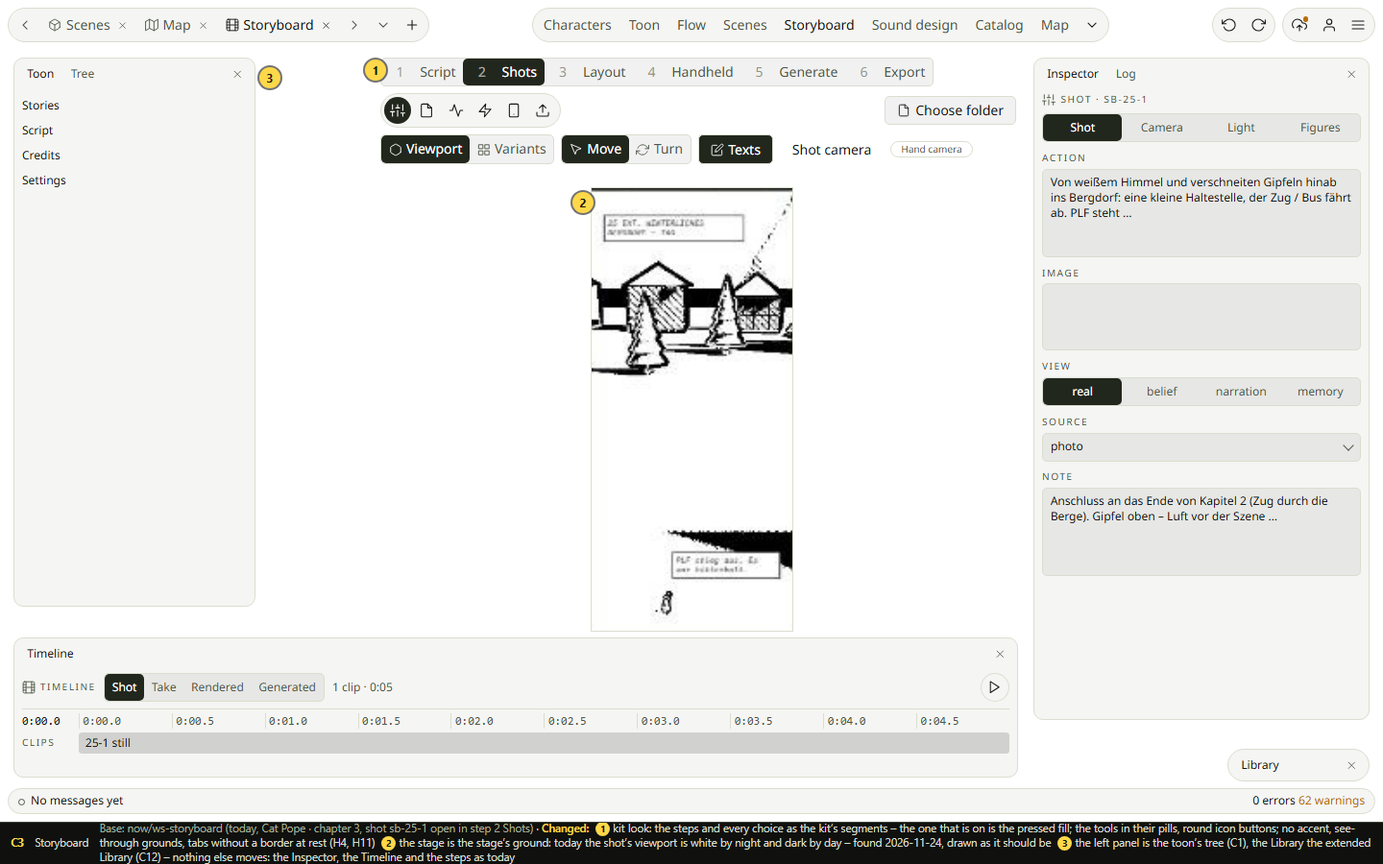
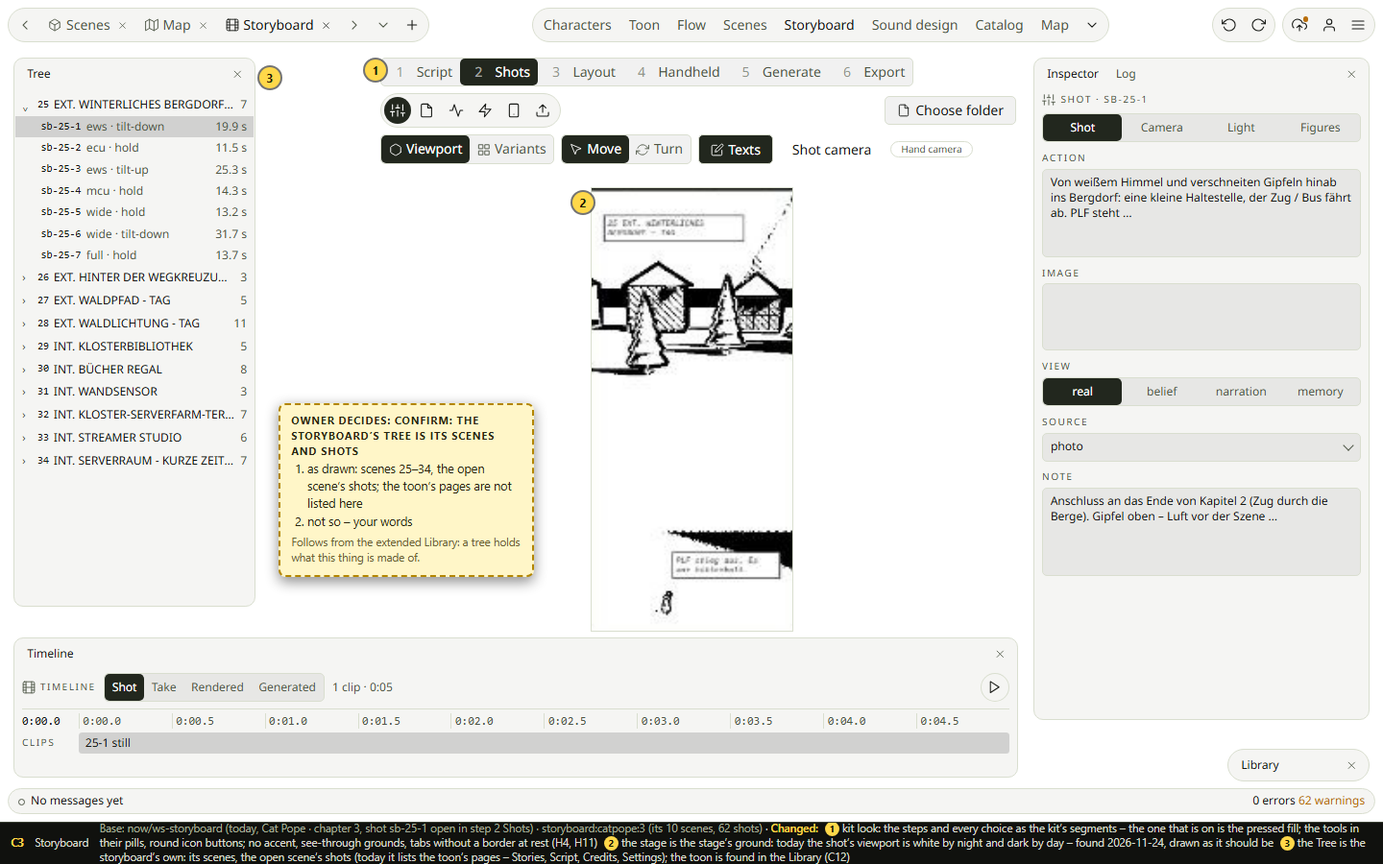
Lap 2: the defaults for the open points are settled for the night run (owner 2026-11-24); the Storyboard with its own tree, the Handheld step (connecting a phone) and the Generate step (the way into the generator) drawn. Refs #626

diff --git a/agents/research/redesign/lap2/draft-screens.js b/agents/research/redesign/lap2/draft-screens.js
@@ -226,35 +226,84 @@ add('C', 'C1', 'Toon: one toon – seasons, chapters, the cast', 'now/ws-toon (2
   });
 add('C', 'C2', 'Chapter', presetBase('chapter'), [KIT],
   () => `${wsFromPreset('Chapter', TOON_ITEMS, [LEFT([['Toon',1],['Tree',0]]), { x: 1076, y: 60, w: 350, h: 420, tabs: [['Inspector',1],['Log',0],['Flow',0]] }, { x: 1092, y: 735, w: 170, tabs: [['Preview',1]], folded: true }, LIBF], pageNotShot())}${mk(1, 270, 60)}`);
-/* C3 – the Storyboard workspace, drawn from today's page (now/ws-storyboard, creator.scutoons.com/catpope/chapter/3/storyboard, 2026-11-24): the steps, the tools, the shot's page, the Inspector, the Timeline – on the kit */
+/* C3 – the Storyboard workspace, drawn from today's page (now/ws-storyboard, creator.scutoons.com/catpope/chapter/3/storyboard, 2026-11-24): the steps, the tools, the shot's page, the Inspector, the Timeline – on the kit.
+   C3b and C3c: the Handheld and the Generate step, their panels' words read from the same page; the scenes and shots are the storyboard's own (storyboard:catpope:3, read 2026-11-24). */
 const SB_PAGE = (x, y, w, h) => `<span class="abs" style="left:${x}px;top:${y}px;width:${w}px;height:${h}px;overflow:hidden;outline:1px solid var(--tool-line)" title="the shot's page as today (sb-25-1)">${capPic(`now/ws-storyboard-${WS_TH}.jpg`, 800, 476, 342, 100, 116, 256)}</span>`;
 const SB_SEG = (names, on, o = {}) => `<span class="seg" ${o.style ? `style="${o.style}"` : ''}>${names.map((n, k) => `<span class="${k === on ? 'on' : ''}" ${o.grow ? 'style="flex:1;justify-content:center"' : ''}>${n}</span>`).join('')}</span>`;
 const SB_LBL = (t, top = '.7rem') => `<div class="label" style="margin:${top} 0 .3rem">${t}</div>`;
 const SB_TEXT = (t, h) => `<div class="fld" style="width:auto;height:${h}px;align-items:flex-start;padding:.35rem .55rem;white-space:normal;line-height:1.35;overflow:hidden">${t}</div>`;
-add('C', 'C3', 'Storyboard', 'now/ws-storyboard (today, Cat Pope · chapter 3, shot sb-25-1 open in step 2 Shots)',
-  ['kit look: the steps and every choice as the kit’s segments – the one that is on is the pressed fill; the tools in their pills, round icon buttons; no accent, see-through grounds, tabs without a border at rest (H4, H11)',
-   'the stage is the stage’s ground: today the shot’s viewport is white by night and dark by day – found 2026-11-24, drawn as it should be',
-   'the left panel is the toon’s tree (C1), the Library the extended Library (C12) – nothing else moves: the Inspector, the Timeline and the steps as today'],
-  () => `${cbar({ chevron: true, wsOn: 'Storyboard', ws: ['Characters', 'Toon', 'Flow', 'Scenes', 'Storyboard', 'Sound design', 'Catalog', 'Map'], items: [['box', 'Scenes'], ['map', 'Map'], ['film', 'Storyboard']] })}
-  ${fp(14, 60, 252, 572, [['Toon', 1], ['Tree', 0]], ['Stories', 'Script', 'Credits', 'Settings'].map(n => `<div class="lrow" style="min-height:1.85rem">${n}</div>`).join(''))}
+const SB_SCENES = [[25, 'EXT. WINTERLICHES BERGDORF - TAG', 7], [26, 'EXT. HINTER DER WEGKREUZUNG - TAG', 3], [27, 'EXT. WALDPFAD - TAG', 5], [28, 'EXT. WALDLICHTUNG - TAG', 11], [29, 'INT. KLOSTERBIBLIOTHEK', 5], [30, 'INT. BÜCHER REGAL', 8], [31, 'INT. WANDSENSOR', 3], [32, 'INT. KLOSTER-SERVERFARM-TERMINALS', 7], [33, 'INT. STREAMER STUDIO', 6], [34, 'INT. SERVERRAUM - KURZE ZEIT SPÄTER', 7]];
+const SB_SHOTS = [['sb-25-1', 'ews · tilt-down', '19.9'], ['sb-25-2', 'ecu · hold', '11.5'], ['sb-25-3', 'ews · tilt-up', '25.3'], ['sb-25-4', 'mcu · hold', '14.3'], ['sb-25-5', 'wide · hold', '13.2'], ['sb-25-6', 'wide · tilt-down', '31.7'], ['sb-25-7', 'full · hold', '13.7']];
+/* the storyboard's own tree: its scenes, the open scene's shots – what the storyboard is made of (LIBRARY.md); the toon's pages are not listed here */
+const sbTree = () => fp(14, 60, 252, 572, [['Tree', 1]], SB_SCENES.map(([n, h, c], k) => `<div class="lrow" style="min-height:1.7rem;gap:.35rem;white-space:nowrap"><span class="cap" style="flex:none;width:.8rem">${k === 0 ? '⌄' : '›'}</span><span class="mono" style="flex:none">${n}</span><span style="flex:1;min-width:0;overflow:hidden;text-overflow:ellipsis;font-size:var(--editor-small)">${h}</span><span class="cap" style="flex:none">${c}</span></div>${k === 0 ? SB_SHOTS.map(([id, m, sec], q) => `<div class="lrow" style="min-height:1.6rem;gap:.4rem;margin:0 -.5rem;padding:0 .5rem 0 1.9rem;white-space:nowrap;${q === 0 ? 'background:var(--tool-selected)' : ''}"><span class="mono">${id}</span><span class="cap" style="flex:1;min-width:0;overflow:hidden;text-overflow:ellipsis">${m}</span><span class="cap">${sec} s</span></div>`).join('') : ''}`).join(''));
+const SB_STEPS = ['1 Script', '2 Shots', '3 Layout', '4 Handheld', '5 Generate', '6 Export'];
+/* the Storyboard's frame: the bar, the tree, the steps and tools, the shot's page, the right panel, the Timeline */
+function sbScreen(step, right) {
+  return `${cbar({ chevron: true, wsOn: 'Storyboard', ws: ['Characters', 'Toon', 'Flow', 'Scenes', 'Storyboard', 'Sound design', 'Catalog', 'Map'], items: [['box', 'Scenes'], ['map', 'Map'], ['film', 'Storyboard']] })}
+  ${sbTree()}
   <div class="abs" style="left:396px;top:60px;display:flex;flex-direction:column;gap:.5rem;width:662px">
-    <div>${SB_SEG(['1 Script', '2 Shots', '3 Layout', '4 Handheld', '5 Generate', '6 Export'].map(n => `<span style="color:inherit;opacity:.6;margin-right:.35rem">${n[0]}</span>${n.slice(2)}`), 1)}</div>
+    <div>${SB_SEG(SB_STEPS.map(n => `<span style="color:inherit;opacity:.6;margin-right:.1rem">${n[0]}</span>${n.slice(2)}`), step - 1)}</div>
     <div style="display:flex;align-items:center"><span class="kp">${['sliders', 'file', 'activity', 'zap', 'phone', 'upload'].map((n, k) => `<span class="kib ${k === 0 ? 'pressed' : ''}">${ic(n)}</span>`).join('')}</span><span style="flex:1"></span><span class="kb plain">${ic('file')}Choose folder</span></div>
-    <div style="display:flex;align-items:center;gap:.5rem">${SB_SEG([ic('cube') + 'Viewport', ic('grid') + 'Variants'], 0)}${SB_SEG([ic('pointer') + 'Move', ic('refresh') + 'Turn'], 0)}<span class="kb plain pressed" style="background:var(--tool-pressed);color:var(--tool-pressed-text)" title="Texts shown">${ic('edit')}Texts</span><span class="kb quiet">Shot camera</span><span class="kc" title="This shot is filmed by hand">Hand camera</span></div>
+    <div style="display:flex;align-items:center;gap:.5rem">${SB_SEG([ic('cube') + 'Viewport', ic('grid') + 'Variants'], 0)}${SB_SEG([ic('pointer') + 'Move', ic('refresh') + 'Turn'], 0)}<span class="kb plain" style="background:var(--tool-pressed);color:var(--tool-pressed-text)" title="Texts shown">${ic('edit')}Texts</span><span class="kb quiet">Shot camera</span><span class="kc" title="This shot is filmed by hand">Hand camera</span></div>
   </div>
   ${SB_PAGE(616, 196, 209, 461)}
-  ${fp(1076, 60, 350, 690, [['Inspector', 1], ['Log', 0]], `<div class="label" style="display:flex;align-items:center;gap:.4rem;margin-bottom:.5rem">${ic('sliders')}Shot · sb-25-1</div>
+  ${fp(1076, 60, 350, 690, right.tabs, right.body)}
+  ${fp(14, 664, 1046, 146, [['Timeline', 1]], `<div style="display:flex;align-items:center;gap:.6rem;margin-bottom:.5rem"><span class="label" style="display:inline-flex;align-items:center;gap:.35rem">${ic('film')}Timeline</span>${SB_SEG(['Shot', 'Take', 'Rendered', 'Generated'], right.clip || 0)}<span class="cap">1 clip · 0:05</span><span style="flex:1"></span><span class="kib" style="box-shadow:inset 0 0 0 1px var(--tool-line)" title="Play">${ic('play')}</span></div>
+    <div style="display:flex;border-top:1px solid var(--tool-line);padding-top:.25rem" class="mono cap"><span style="width:4.2rem;color:var(--tool-text)">0:00.0</span>${['0:00.0', '0:00.5', '0:01.0', '0:01.5', '0:02.0', '0:02.5', '0:03.0', '0:03.5', '0:04.0', '0:04.5'].map(t => `<span style="flex:1;border-left:1px solid var(--tool-line);padding-left:.25rem">${t}</span>`).join('')}</div>
+    <div style="display:flex;align-items:center;margin-top:.3rem"><span class="label" style="width:4.2rem">Clips</span><span style="flex:1;height:1.6rem;border-radius:.25rem;background:var(--tool-selected);display:flex;align-items:center;padding:0 .5rem;font-size:var(--editor-small)">25-1 still</span></div>`)}
+  ${folded(1278, 780, 'Library')}${cstatus('No messages yet', '0 errors <span class="warn">62 warnings</span>')}`;
+}
+const SB_INSPECTOR = { tabs: [['Inspector', 1], ['Log', 0]], body: `<div class="label" style="display:flex;align-items:center;gap:.4rem;margin-bottom:.5rem">${ic('sliders')}Shot · sb-25-1</div>
     ${SB_SEG(['Shot', 'Camera', 'Light', 'Figures'], 0, { style: 'display:flex', grow: 1 })}
     ${SB_LBL('Action')}${SB_TEXT('Von weißem Himmel und verschneiten Gipfeln hinab ins Bergdorf: eine kleine Haltestelle, der Zug / Bus fährt ab. PLF steht …', 92)}
     ${SB_LBL('Image')}${SB_TEXT('', 70)}
     ${SB_LBL('View')}${SB_SEG(['real', 'belief', 'narration', 'memory'], 0, { style: 'display:flex', grow: 1 })}
     ${SB_LBL('Source')}<div class="fld sel" style="width:auto">photo</div>
-    ${SB_LBL('Note')}${SB_TEXT('Anschluss an das Ende von Kapitel 2 (Zug durch die Berge). Gipfel oben – Luft vor der Szene …', 92)}`)}
-  ${fp(14, 664, 1046, 146, [['Timeline', 1]], `<div style="display:flex;align-items:center;gap:.6rem;margin-bottom:.5rem"><span class="label" style="display:inline-flex;align-items:center;gap:.35rem">${ic('film')}Timeline</span>${SB_SEG(['Shot', 'Take', 'Rendered', 'Generated'], 0)}<span class="cap">1 clip · 0:05</span><span style="flex:1"></span><span class="kib" style="box-shadow:inset 0 0 0 1px var(--tool-line)" title="Play">${ic('play')}</span></div>
-    <div style="display:flex;border-top:1px solid var(--tool-line);padding-top:.25rem" class="mono cap"><span style="width:4.2rem;color:var(--tool-text)">0:00.0</span>${['0:00.0', '0:00.5', '0:01.0', '0:01.5', '0:02.0', '0:02.5', '0:03.0', '0:03.5', '0:04.0', '0:04.5'].map(t => `<span style="flex:1;border-left:1px solid var(--tool-line);padding-left:.25rem">${t}</span>`).join('')}</div>
-    <div style="display:flex;align-items:center;margin-top:.3rem"><span class="label" style="width:4.2rem">Clips</span><span style="flex:1;height:1.6rem;border-radius:.25rem;background:var(--tool-selected);display:flex;align-items:center;padding:0 .5rem;font-size:var(--editor-small)">25-1 still</span></div>`)}
-  ${folded(1278, 780, 'Library')}${cstatus('No messages yet', '0 errors <span class="warn">62 warnings</span>')}
-  ${mk(1, 380, 62)}${mk(2, 596, 200)}${mk(3, 270, 70)}`);
+    ${SB_LBL('Note')}${SB_TEXT('Anschluss an das Ende von Kapitel 2 (Zug durch die Berge). Gipfel oben – Luft vor der Szene …', 92)}` };
+add('C', 'C3', 'Storyboard', 'now/ws-storyboard (today, Cat Pope · chapter 3, shot sb-25-1 open in step 2 Shots) · storyboard:catpope:3 (its 10 scenes, 62 shots)',
+  ['kit look: the steps and every choice as the kit’s segments – the one that is on is the pressed fill; the tools in their pills, round icon buttons; no accent, see-through grounds, tabs without a border at rest (H4, H11)',
+   'the stage is the stage’s ground: today the shot’s viewport is white by night and dark by day – found 2026-11-24, drawn as it should be',
+   'the Tree is the storyboard’s own: its scenes, the open scene’s shots (today it lists the toon’s pages – Stories, Script, Credits, Settings); the toon is found in the Library (C12)'],
+  () => `${sbScreen(2, SB_INSPECTOR)}
+  ${mk(1, 380, 62)}${mk(2, 596, 200)}${mk(3, 270, 70)}
+  ${qcard(290, 420, 'confirm: the Storyboard’s tree is its scenes and shots', ['as drawn: scenes 25–34, the open scene’s shots; the toon’s pages are not listed here', 'not so – your words'], 'Follows from the extended Library: a tree holds what this thing is made of.', '19rem')}`);
+add('C', 'C3b', 'Storyboard · 4 Handheld: connecting a phone', 'today’s Handheld panel, its words read from the page (handheld-panel.svelte, phone-pairing.svelte; 2026-11-24) – the QR code and the 3D view are not captured',
+  ['the Handheld panel on the kit – its parts as today: on or off for the shot, the phone, the takes, trim, smooth, render',
+   'connecting: press “Connect a phone” – the panel shows the code to scan and waits; the conditions (Chrome, the same Wi-Fi) are the code’s hover text, not a sentence in the panel (H14)',
+   'while it waits and once it is connected: Disconnect · Recenter · Record – Record is the one primary action',
+   'the trim’s explaining sentence is hover text (H14)'],
+  () => `${sbScreen(4, { clip: 1, tabs: [['Inspector', 0], ['Handheld', 1], ['Log', 0]], body: `
+    ${SB_LBL('Handheld', '0')}${SB_SEG(['Off', 'On for sb-25-1'], 1, { style: 'display:flex', grow: 1 })}
+    ${SB_LBL('Phone')}
+    <div style="display:flex;gap:.8rem;align-items:flex-start">
+      <span title="Scan with the phone – Chrome, on the same Wi-Fi as this computer. The code is made when you connect; it is not drawn here." style="flex:none;width:112px;height:112px;border:1px solid var(--tool-line);border-radius:.3rem;display:grid;place-items:center;background:repeating-linear-gradient(45deg,transparent 0 5px,color-mix(in srgb,var(--tool-text) 10%,transparent) 5px 6px)"><span class="label">QR</span></span>
+      <span style="display:flex;flex-direction:column;gap:.45rem;min-width:0"><span>Scan with the phone</span><span class="kb quiet" style="justify-content:flex-start;padding:0;height:auto" title="Copy the phone’s link">${ic('copy')}The phone’s link</span><span class="cap" style="display:inline-flex;align-items:center;gap:.35rem"><span class="sdot"></span>Waiting for the phone … · QUIC</span></span>
+    </div>
+    <div style="display:grid;grid-template-columns:4rem 1fr;gap:.45rem .6rem;align-items:center;margin-top:.7rem"><span class="label">Smooth</span><span class="rng" style="width:auto"></span><span class="label">Scale</span><span class="rng" style="width:auto"></span></div>
+    <div style="display:flex;gap:.4rem;margin-top:.7rem"><span class="kb plain">Disconnect</span><span class="kb plain">Recenter</span><span style="flex:1"></span><span class="kb primary">Record</span></div>
+    ${SB_LBL('Takes', '1rem')}<div class="lrow" style="min-height:1.8rem;margin:0 -.5rem;padding:0 .5rem;background:var(--tool-selected)"><span class="mono">t1</span><span class="cap" style="flex:1">18.5 s of 18.5 s</span><span class="cap">21:08</span></div>
+    ${SB_LBL('Trim')}<div class="cap" title="Drag t1’s in and out on its clip below (I and O at the playhead) – the 3D view shows that moment.">on the clip below</div>
+    ${SB_LBL('Smooth')}<span class="rng" style="width:100%"></span>
+    ${SB_LBL('Render')}<span class="kb plain">Render t1</span>` })}
+  ${mk(1, 1062, 70)}${mk(2, 1062, 190)}${mk(3, 1062, 372)}${mk(4, 1062, 498)}
+  ${capn(396, 640, 'before connecting, the Phone part is one button: “Connect a phone” · what the panel shows once the phone is connected was not read – not drawn')}`);
+add('C', 'C3c', 'Storyboard · 5 Generate: the way into the generator', 'today’s Generate panel, its words read from the page (generate-panel.svelte; 2026-11-24) · AI-HOOKS.md §0 (a slot takes a file or a generator; entering a generation opens the spore canvas) · the canvas itself: C11',
+  ['the shot’s picture is a slot: it takes a file from the Library or a generator (decided 2026-11-22) – today the panel only makes a prompt for one tool',
+   '“Open the generator” is the way in: the Generate workspace opens with this shot woven in – its prompt, its still, its references (C11; in lap 2 the canvas is the stub, the deck’s canvas comes with #764)',
+   'what the generator yields comes back to the slot; “by hand” stays as today: copy the prompt, drop the result',
+   'the generator’s choice is a boxed select (a value); the notes about keys that are not set up are hover text on the choices (H14)'],
+  () => `${sbScreen(5, { clip: 3, tabs: [['Inspector', 0], ['Generate', 1], ['Log', 0]], body: `
+    ${SB_LBL('Picture · sb-25-1', '0')}
+    <div style="display:flex;align-items:center;gap:.5rem;padding:.45rem;border:1px dashed var(--tool-line);border-radius:.4rem"><span style="flex:none;width:44px;height:58px;border:1px solid var(--tool-line);border-radius:.2rem;display:grid;place-items:center" class="cap" title="the shot has no picture yet – its source is a schematic">–</span><span style="flex:1;min-width:0"><div>empty</div><div class="cap">takes a picture · 1:3</div></span><span class="kb plain" title="Pick a file or a generator from the Library (C12c)">${ic('grid')}Pick</span></div>
+    <div style="display:flex;gap:.4rem;margin-top:.5rem"><span class="kb primary">${ic('sparkles')}Open the generator</span><span class="kc" title="where an external tool runs">${ic('zap')}hook</span></div>
+    ${SB_LBL('By hand', '1rem')}
+    <div class="fld sel" style="width:auto" title="Luma (uni-1) – not set up · Luma – by hand · Runway – not set up · Gemini (image) – unavailable">Luma – by hand</div>
+    ${SB_LBL('Prompt')}<span class="kb plain">Build from the shot</span>
+    ${SB_LBL('Still')}<div class="cap">none</div>
+    ${SB_LBL('Attach')}<div class="lrow" style="min-height:1.7rem">${ic('smile')}catpope (human) · sad<span class="cap" style="margin-left:auto">Characters</span></div>
+    ${SB_LBL('Result')}<div style="height:74px;border:1px dashed var(--tool-line);border-radius:.4rem;display:grid;place-items:center" class="cap" title="Choose a workspace folder first – the result is saved there.">Drop the result here – or pick it</div>` })}
+  ${mk(1, 1062, 100)}${mk(2, 1062, 176)}${mk(3, 1062, 478)}${mk(4, 1062, 238)}
+  ${qcard(290, 500, 'confirm: the shot’s picture as a slot with “Open the generator”', ['as drawn: the slot on top, the generator one press away, “by hand” below as today', 'not so – your words'], 'Drawn from AI-HOOKS.md §0; the panel today has no slot and no way into a canvas.', '19rem')}`);
 
 add('C', 'C4', 'Characters: Sheet · 3D · Kanon · Expressions · Rig · Voice · Cast · Generations', 'now/creator-1, now/ws-characters (Rig in front)',
   ['the Rig tab without the Bones and Clips lists (the deck\'s asset view has them, not twice) – the rest as today: the look\'s 3D model, the model\'s line, Idle, Body, A-pose',

diff --git a/agents/decisions/law.md b/agents/decisions/law.md
@@ -4,6 +4,7 @@ The owner's words, one line each, newest first, append-only (how: agents/DECISIO
 Keys here: `[editor-style]` 33 the tools take the deck / OSCT editor style; the creator is desktop-only · `[vertex]` 1 OpenCode sessions use the `vienna-struggle` service account by the kind ladder · `[deck-rules-in-deck]` 3 deck rules live in the deck, the server keeps configuration · `[mcp-byo-ai]` 6 AI = the member's own Claude via MCP · `[worktree-requests]` 6 worktrees and branches: when, and the owner merges · `[docs]` 4 the docs structure and caps · `[language-neutral]` 3 everything language-independent · `[scenes-from-api]` 3 scenes are API content (entities), not TOML · `[audit]` 2 the bridge audit is standing and reruns often · `[browser-is-ui]` 2 the browser is UI, no business logic · `[designer-in-creator]` 2 the designer is in the creator; performance vs edit mode · `[dev-ports]` 2 fixed ports, one start routine · `[issues-only]` 2 all open work is GitHub issues · `[kanon]` 2 the Kanon (story texts) · `[mariadb]` 2 MariaDB only; production is the source · `[names]` 2 deck / stage environment / no master-slave wording · `[night-runs]` 2 unattended runs: merge to main, never push · `[no-cloud]` 2 no cloud sessions; workers local in worktrees · `[perf-first]` 2 performance and stability first · `[rigs-in-core]` 2 rigs and modules are Rust in the core · `[ai-license]` 1 AI models without the big companies' license limits · `[api-content]` 1 content from the API, JSON only as import / export · `[audiovisual]` 1 everything is audiovisual · `[board]` 1 the six board statuses · `[board-move]` 1 move issues along the board · `[bold]` 1 bold very rarely · `[branch-names]` 1 <kind>/<issue>-<title> · `[carrier-bag]` 1 "carrier bag" replaces inventory · `[codes]` 1 codes are case-sensitive · `[config-small]` 1 keep the configuration small · `[confirm]` 1 in-page confirmations · `[control-height]` 1 one control height · `[core-only]` 2 check:core-only ratchet · `[deck-ci-local]` 2 deck CI runs locally; stamps and the full tier · `[devices-via-core]` 1 camera / MIDI / sensors reach the core through adapters · `[done-green]` 1 done = green checks · `[drafts-first]` 1 bigger UI is drafted first · `[empty-states]` 1 empty states · `[fold]` 1 quiet fold buttons · `[law-book]` 1 this refactor · `[local-media]` 1 local media is a dev copy · `[mcp-draft-ok]` 1 save_draft always allowed · `[mcp-drafts]` 1 the AI saves drafts, the member confirms · `[mcp-restart]` 1 agents restart their own MCP · `[media-quality]` 1 media quality is a reader setting · `[migrations]` 1 the owner never runs migrations; format changes · `[models]` 1 model per task · `[module-restart]` 1 a new module is taken only by restart · `[music]` 1 every character makes music; how SCUTOONS began · `[no-backcompat-engine]` 1 no backwards compatibility for the audio engine · `[no-duplicate]` 1 no second copy of core logic · `[one-core]` 1 the one universal Rust core; platforms are target + adapters · `[one-engine]` 1 one audio engine, native ≡ wasm · `[own-video]` 1 own video playback, no browser API · `[packs]` 1 items / recipes are data packs · `[public-repo]` 1 repo public, Actions minutes free · `[readers-save-nothing]` 1 readers save nothing; no submit flow · `[rem]` 1 sizes in rem · `[round-square]` 1 round vs square controls · `[rust-engine]` 1 as much as possible in the Rust engine · `[rust-first]` 1 Rust first for everything native · `[slice-624]` 1 slice 390 × 624 · `[tempo-core]` 1 the tempo clock lives in the core · `[test-user]` 1 agents debug as the test user · `[ts-module-host]` 1 the TS module host is deleted · `[ts-tests]` 2 TypeScript + unit tests · `[urls]` 1 printed URLs never change · `[usage]` 1 usage reporting · `[ui-kit]` 8 one component library for shared 2D UI
 
 ## 2026-11
+- 2026-11-24 · ui deck · [editor-style] **Settled for the lap 2 night run – the owner took the agent's defaults for the open points:** the four depth layers are named stage · surfaces · popovers · overlay; Search and dialogs sit on the overlay level; the switcher's content is at most 1160 px wide and its foot goes (the ☰ holds it); the workspace tab has no menu of its own in this lap; the deck's switcher has no Needs review box; Help and Go to are in the ☰ menu; a disabled primary button is the pressed fill, faded; the see-through grounds stand as redrawn; outlet colours are four – page · stage · target · device – on lane and column heads only; the Show's Flash and Scene sheets are views, New show is a dialog on the overlay level; no deck installers for Windows and macOS in this lap (the link works on Arch only); "Open in the deck" without a deck: the installed creator offers a download link, the web version just tries; dropping a Toon, Show, Generator, Kanon text or person does nothing yet, each opens in its own workspace. Owner: *"Yes, use them."* · → research/redesign/lap2/PLAN.md ("Settled for the run")
 - 2026-11-24 · ui deck · [editor-style] **Decided: outlet types get colours – as already started.** Owner: *"Outlet types get colours as we already started to identify."* The start is the #703 draft of the sequence concept (research/scenes/scenes-drafts.html), which colours a sequence's lanes by where they play: page (the reader's page) · stage (a deck's screen or speaker) · target (an XR scene) · light (a device: DMX) – night #7cc4ff · #ffb86b · #b99cff · #f2df6f, day #2a7fc0 · #c46a12 · #7448d6 · #a88a00. In the code an outlet's kind is Stage or Device (deck/show document.rs) and nothing colours it. The full list and the values (three of the four sit close to a signal's colour) are tuned on the kit page; the table goes into `kit/tokens.toml` beside the signals. · → RULES H11, research/redesign/lap2/kit-d.html ("Outlet types"), PLAN.md P1
 - 2026-11-24 · ui deck · [editor-style] **Decided: the kit's one source of truth is a top-level `kit/` folder – a neutral `kit/tokens.toml` (the tokens, and each component's states as named entries) with a README of the components and their states; the deck's UI crate builds it in, the web tools' CSS is generated from it, and the checks fail when either drifts.** The deck orchestrator's proposal (deck-kit already reads a `tokens.toml` overlay). Owner: *"Yes, the kit is the way to go."* · → research/redesign/lap2/PLAN.md P1
 - 2026-11-24 · ui · [editor-style] **Decided: a select that filters or sorts in a toolbar is quiet – no box at rest, a rounded border on hover and while open, as tabs; a select that sets a value in a form stays the boxed field.** Asked by the owner on the Library's "Every toon", "By use" and "By name" (*"Was there a UI state for regular select that had no box around them at first? Please review your own design kit."*); the kit had only the boxed one, the quiet one was drawn as a proposal. Owner: *"Yes, quiet."* · → RULES H4, research/redesign/lap2/kit-d.html ("Select quiet")

diff --git a/agents/research/redesign/lap2/PLAN.md b/agents/research/redesign/lap2/PLAN.md
@@ -108,6 +108,14 @@ The Library lists things and files; a thing is stepped into; an assignment shows
 - **Types** (decided): Toon · Character · Scene · Show · Place · Item · Module · Instrument and rig · Generator, and for now Kanon texts and people.
 - **Decided with it:** one list, one picker (the five sheets go), the Catalog's and the Toon's trees without their top level, the Cast tab as "cast in", "By cast" listing characters.
 
+### P12 · The Storyboard
+Drawn from today's page: C3, C3b, C3c.
+- **The kit look** on its steps, tools, Inspector and Timeline – comes with P1.
+- **The viewport's ground** – with P8.
+- **The Handheld panel** as drawn (C3b): the code to scan and the waiting state, Disconnect · Recenter · Record, the conditions and the trim's sentence as hover text.
+- **Waits for your word** (a question card each): the Tree as the storyboard's own scenes and shots (C3); the shot's picture as a slot with "Open the generator" as the way into the Generate workspace (C3c).
+- **Not drawn:** the steps Script, Layout and Export, the Variants view, the 3D view of a handheld shot, the panel once a phone is connected.
+
 ### P8 · Bugs and wording
 - The Map's stage at 0 px.
 - The Storyboard's viewport ground: white by night and dark by day today (found 2026-11-24 on Cat Pope · chapter 3).
@@ -139,22 +147,31 @@ The Library lists things and files; a thing is stepped into; an assignment shows
 - Trees across workspaces (TREES.md) – not decided.
 - XR at a place and Map as a view – owned by the scenes epic (#714, #482).
 
-## Open before the run
-These block a package. Each is in DECISIONS.md under its area.
-| Point | Blocks |
+## Settled for the run
+You approved these on 2026-11-24 ("yes, use them").
+| Point | Settled as | Package |
+|---|---|---|
+| The four layer names | stage · surfaces · popovers · overlay | P2 |
+| Search and dialogs | on the overlay level, blurred behind | P2 |
+| The switcher's maximum width | 1160 px | P2 |
+| The workspace tab's own menu | none in this lap; Views and Save workspace are in the ☰ | P2 |
+| The switcher's foot | goes; the ☰ holds it | P2 |
+| The deck's Needs review box | left out | P2 |
+| Help and Go to | in the ☰ menu | P2 |
+| A disabled primary button | the pressed fill, faded | P1 |
+| The see-through grounds | as redrawn on kit-d.html | P1 |
+| Outlet colours | four – page · stage · target · device – on lane and column heads only, never on cables or ports; a mark each in the colour-blind set | P1 |
+| The Show's Flash, Scene and New show sheets | Flash and Scene are views; New show is a dialog on the overlay level | P2 (deck) |
+| Deck installers for Windows and macOS | not in this lap; the link between the apps works on Arch only | P4 |
+| "Open in the deck" with no deck installed | the installed creator offers a download link; the web version just tries | P4 |
+| Dropping a Toon, a Show, a Generator, a Kanon text or a person | nothing yet; each opens in its own workspace | P11 |
+
+## Open – out of the run until you say
+| Point | Package |
 |---|---|
-| The four layer names; Search and dialogs on the overlay level | P2 |
-| The switcher's maximum width (1160 px drawn) | P2 |
-| The workspace tab's own menu | P2 (B2) |
-| The switcher's foot; the deck's Needs review box; Help and Go to in the ☰ | P2 |
-| A disabled primary button; the see-through grounds as redrawn | P1 |
-| The outlet types' list and colours. Deck: four – page · stage · target · device ("light" renamed, so one colour covers DMX, MIDI and OSC, as the stored kind does; the protocol is a mark on the lane); no colour for sound alone or for a sub show. Three of the started colours sit close to a signal's (page and picture, stage and vote, target and address): either outlet colours stay on lane and column heads only, never on cables or ports, or they take hues the signals do not use; each needs a mark in the colour-blind set | P1 |
-| The Show's Flash, Scene and New show sheets: a view, a dialog on the overlay level, or gone | P2 (deck) |
-| Installers for the deck on Windows and macOS: a package of this lap, or the link on Arch only | P4 |
-| "Open in the deck" with no deck installed | P4 |
 | The module editor: is the creator's removed, and what happens to what only it has | P9 |
 | What a good writing experience holds | P10 |
-| The extended Library: what dropping a Toon, a Show, a Generator, a Kanon text or a person does, and where each opens (LIBRARY.md) | P11 |
+| The Storyboard's tree as its scenes and shots; the shot's picture as a slot with "Open the generator" (two question cards on C3 and C3c) | P12 |
 
 These do not block the run; their screens stay out of it:
 - Where the 2D-first / 3D-first preference sits (C4).

diff --git a/agents/research/redesign/lap2/SCREENS.md b/agents/research/redesign/lap2/SCREENS.md
@@ -38,7 +38,9 @@ Every screen is 1440×900, night first, drawn from today's screen (`now/`, the w
 |---|---|---|---|
 | C1 | Toon | the tree of one toon: the season, its chapters and a Cast branch; the season's cast listed and edited here (order, role per language, personas, Add from the Library, ✕); a character opened from it goes to Characters | current (from now/ws-toon, drawn with Cat Pope; card: the Toon tree's top level) |
 | C2 | Chapter | kit look | current (panels from presets.ts; the page not captured) |
-| C3 | Storyboard | drawn from today's page (Cat Pope · chapter 3): the six steps and every choice as segments, the tools in their pills, the shot's page on the stage, the Inspector, the Timeline; the toon's tree on the left, the extended Library | current |
+| C3 | Storyboard | drawn from today's page (Cat Pope · chapter 3): the six steps and every choice as segments, the tools in their pills, the shot's page on the stage, the Inspector, the Timeline; the Tree is the storyboard's own – its scenes and shots (to confirm) | current |
+| C3b | Storyboard · 4 Handheld: connecting a phone | the Handheld panel on the kit: on or off for the shot, the code to scan, waiting, Disconnect · Recenter · Record, the takes, trim, smooth, render; the conditions and the trim's sentence as hover text | current |
+| C3c | Storyboard · 5 Generate: the way into the generator | the shot's picture as a slot (a file or a generator), "Open the generator" as the way into the Generate workspace, the result back in the slot; "by hand" below as today (to confirm) | current |
 | C4 | Characters | the Rig tab without the Bones and Clips lists – the rest as today (the look's 3D model, the model's line, Idle, Body, A-pose) – and "Open in the deck"; no Import images; 2D-first or 3D-first is open | current |
 | C4b | Characters: the Cast tab | "cast in": the seasons the character is cast in, each a link to the toon's season – not an editor | current (card: the Cast tab) |
 | C5 | Scenes: the scene page | no Tree of all scenes (the Library opens scenes); the scene's preview covers the whole back; "Edit in deck" on it; the facts and versions in a panel | current |
@@ -98,4 +100,4 @@ Every screen is 1440×900, night first, drawn from today's screen (`now/`, the w
 | universe.html | the twelve kinds as one tree, production counts | for reading – palette D ("Creator", "Deck" quiet chips) |
 | modules-dna.html | module · rig · slot · network | draft, six points open – palette D (see-through grounds) |
 
-**Count:** 10 + 7 + 18 + 9 + 9 + 3 = 56 screens (C4b, C12b, C12c, E1b, E5c, E5d drawn as their own screens). **Current: 41 · moved: 8 · words: 4 · done or dropped: 3 · old: 0.**
+**Count:** 10 + 7 + 20 + 9 + 9 + 3 = 58 screens (C3b, C3c, C4b, C12b, C12c, E1b, E5c, E5d drawn as their own screens). **Current: 43 · moved: 8 · words: 4 · done or dropped: 3 · old: 0.**

diff --git a/agents/research/redesign/lap2/DECISIONS.md b/agents/research/redesign/lap2/DECISIONS.md
@@ -27,14 +27,10 @@ One line per decision. **Open** lists what still needs the owner's word; **Thoug
 - **The switcher's content has a maximum width**, centred.
 - **No thick left bar** on a selected row. (H10)
 - **Texts and placeholders are short.** A search field says "Find".
+- **Settled for the run (2026-11-24):** the layer names stand; Search and dialogs sit on the overlay level; a disabled primary is the pressed fill, faded; the see-through grounds stand as redrawn; outlet colours are four (page · stage · target · device), on lane and column heads only.
 - **The tools do not flag what is missing.** The Library's "Blank – wanted", "Missing versions" and "Missing credits" go, in the design and in the code: a gap may be on purpose. (H17)
 
 **Open**
-- The four layer names are my wording – confirm or rename.
-- The switcher's maximum width: 1160 px is drawn – confirm or give the number.
-- Do Search and dialogs sit on the overlay level (blurred behind) or on the popover level (sharp)?
-- How a disabled primary button looks.
-- The see-through grounds as redrawn on kit-d.html: do they match what you meant?
 
 ## 3 · The shell
 - **The ☰ menu and the switcher are two things.** The menu holds your list: Views with Save workspace · Search · Settings · Docs · the build (version, account, load meters) · the edit language.
@@ -48,12 +44,9 @@ One line per decision. **Open** lists what still needs the owner's word; **Thoug
 - **A craft shapes the bar:** the translator's bar carries the edit language.
 - **The Show's own pill goes.** Cues, Problems, Who, Session, Vote and Demos are views of the Show workspace, listed in the ☰ Views. The bar's middle holds the workspace row and nothing else. (H16)
 - **Resume across devices** (built, #838). Existing members are asked their crafts once.
+- **Settled for the run (2026-11-24):** the switcher's content is at most 1160 px wide; its foot goes; the workspace tab has no menu of its own in this lap; the deck's switcher has no Needs review box; Help and Go to are in the ☰ menu; the Show's Flash and Scene sheets are views, New show is a dialog on the overlay level.
 
 **Open**
-- Does the workspace tab keep its own menu (Save · Rename · Back to the last save · Save as new · Delete)?
-- The switcher's foot (account, Settings, Docs): stays, or goes because the ☰ holds it?
-- Does the deck's switcher show a Needs review box?
-- Do Help and Go to belong in the ☰ menu?
 
 ## 4 · The two apps
 - **The creator becomes an Electron app in this lap** – a thin wrapper over the same code. The web version stays for now.

diff --git a/agents/research/redesign/lap2/NOTES.md b/agents/research/redesign/lap2/NOTES.md
@@ -126,3 +126,4 @@ Later, after these: the scene page + open in the deck; Catalog + Library; the on
 - **Decided: the extended Library's five consequences** (owner on the draft's question cards: *"Yes, as drawn."*) – one list, the trees' top levels gone, one picker, the Cast tab as "cast in", "By cast" with characters. decisions/creator.md, LIBRARY.md, DECISIONS.md §5, PLAN.md P11; the five cards are off the draft. "Trees that travel" stays unconfirmed.
 - **Decided: trees do not travel between workspaces** (owner: *"Yes, they go."*) – the Library does the referencing. decisions/creator.md, LIBRARY.md (nothing open in it now), TREES.md (a note at its head), DECISIONS.md §5.
 - **The Storyboard workspace was missing** (owner: *"You are missing the storyboard workspace. Draft it and then we can switch to Opus and start the night run."*) – the draft's C3 was an empty frame with the panels' names. Captured today's page from production (now/ws-storyboard-night.jpg, -day.jpg: creator.scutoons.com/catpope/chapter/3/storyboard, shot sb-25-1, step 2 Shots) and drew C3 from it on the kit: the six steps, the tool rows, the shot's page, the Inspector (Shot · Camera · Light · Figures; Action, Image, View, Source, Note), the Timeline, the toon's tree, the Library. Found on the capture: the viewport's ground is white by night and dark by day – in PLAN.md P8. Nothing else of the Storyboard is redesigned; its other steps (Script, Layout, Handheld, Generate, Export) and the Variants view are not drawn.
+- **The defaults for the open points are taken** (owner: *"Yes, use them, but also add a view of how the generator canvas in this scenario is accessed, and how connecting an external handheld looks like. For storyboard the left tree might need rework with our library concept."*) – law.md, PLAN.md "Settled for the run", DECISIONS.md. Drawn for it: C3 with the storyboard's own tree (its 10 scenes, the open scene's 7 shots, from storyboard:catpope:3), C3b (step 4 Handheld, connecting a phone – the panel's words read from production: Off · On for sb-25-1, Connect a phone, the code to scan, "Waiting for the phone … · QUIC", Smooth, Scale, Disconnect · Recenter · Record, the takes, Trim, Smooth, Render t1), C3c (step 5 Generate – today's panel: the generator choice with its "not set up" notes, Build from the shot, Still, Attach, Result; new: the shot's picture as a slot and "Open the generator", from AI-HOOKS.md §0). Two question cards: the tree, the slot. PLAN.md P12. While reading the page the agent pressed "Connect a phone" on production once and disconnected again.
